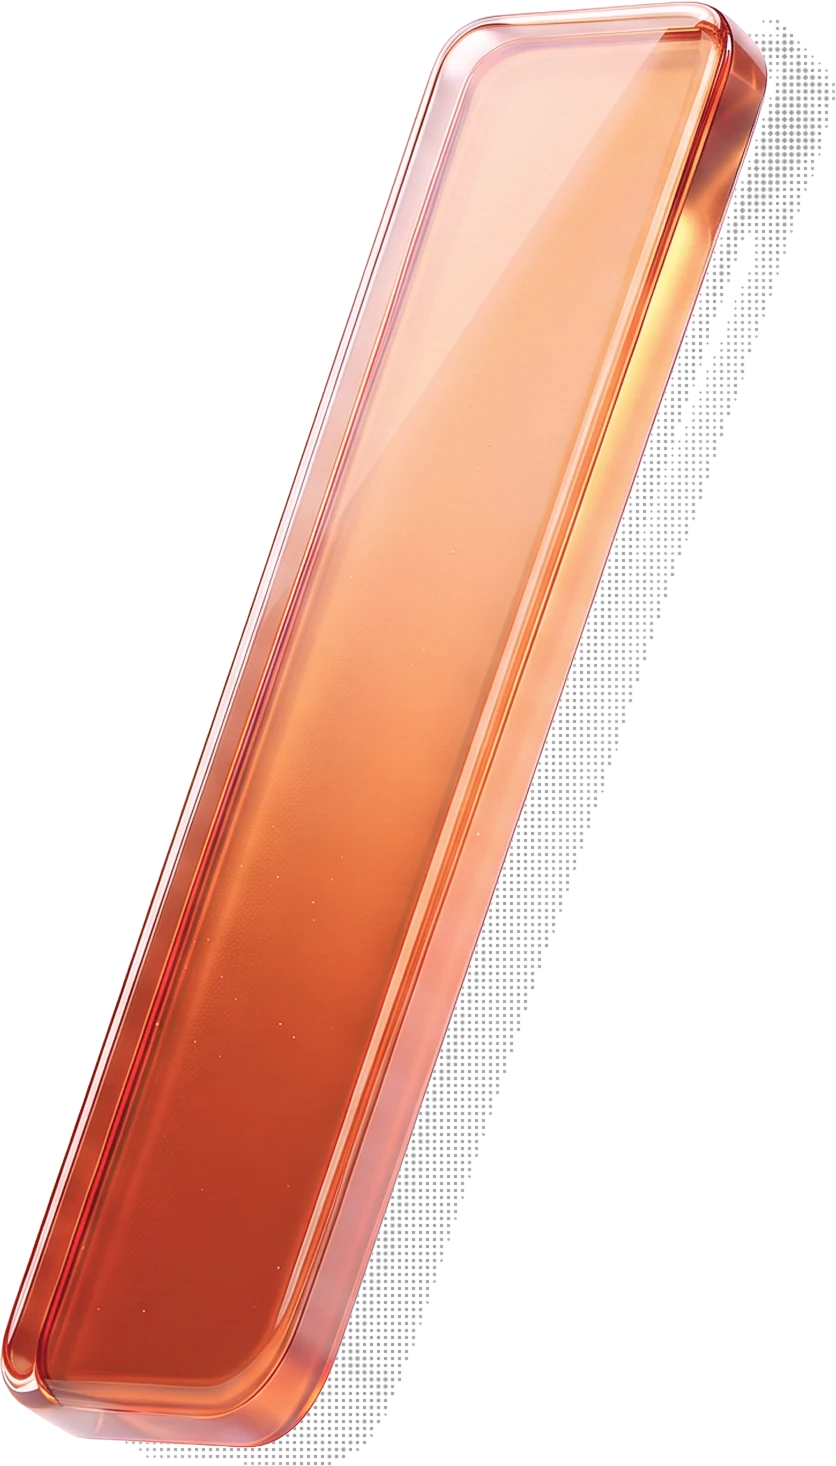
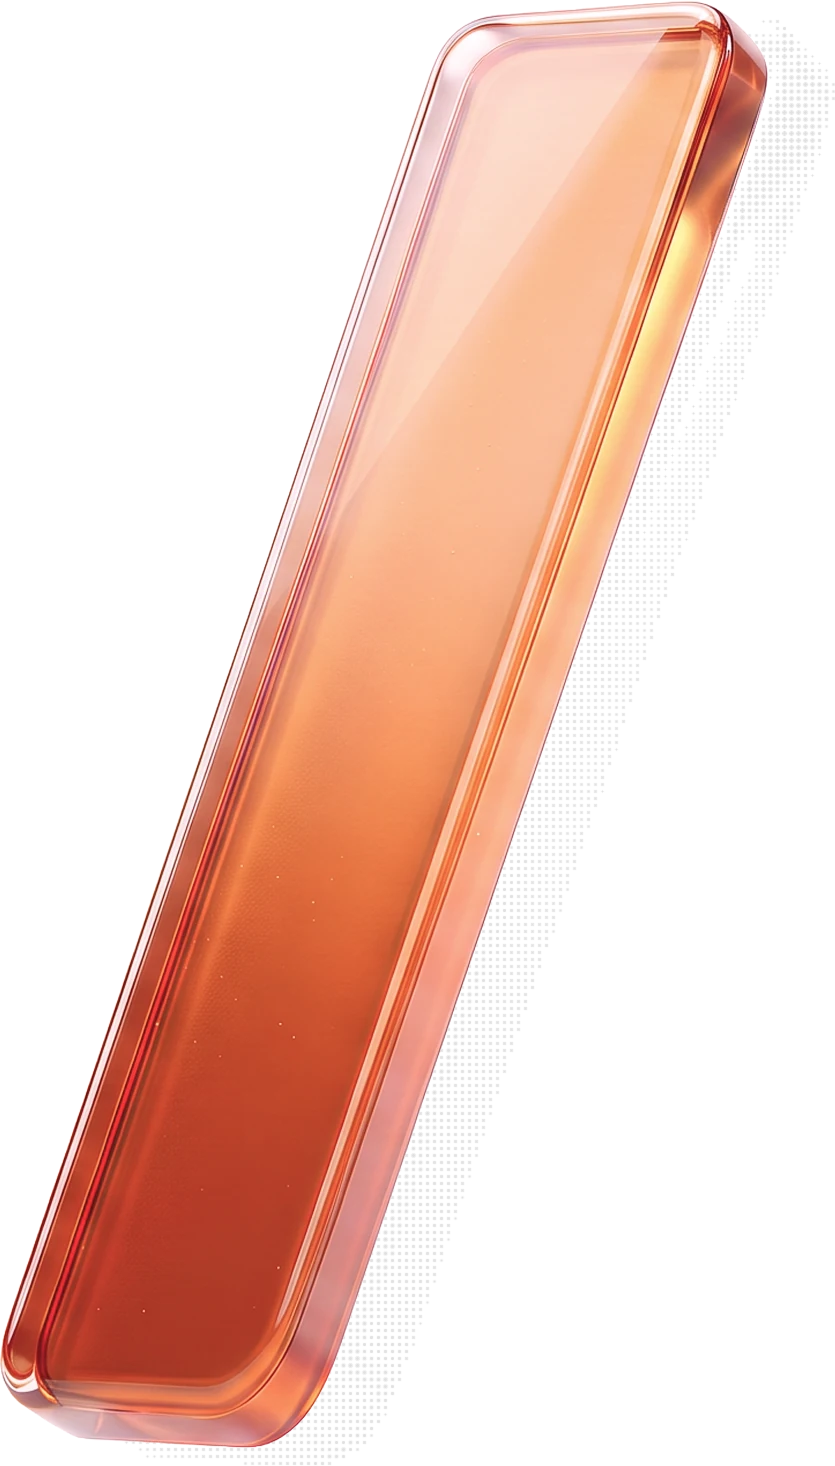
Replace hero slash image

diff --git a/src/components/Hero.jsx b/src/components/Hero.jsx
@@ -27,7 +27,7 @@ export default function Hero() {
       <img
         className="hero__slash"
         src={slashImg}
-        width="836"
+        width="835"
         height="1466"
         alt=""
         aria-hidden="true"
